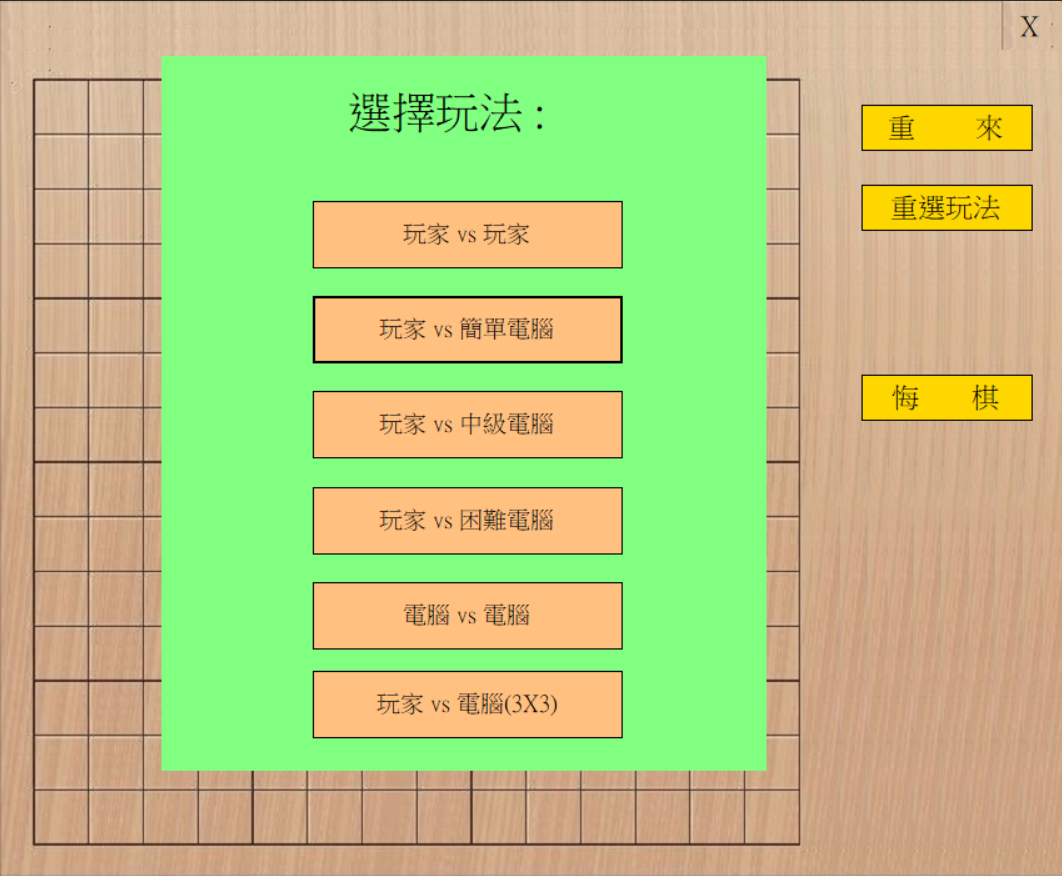
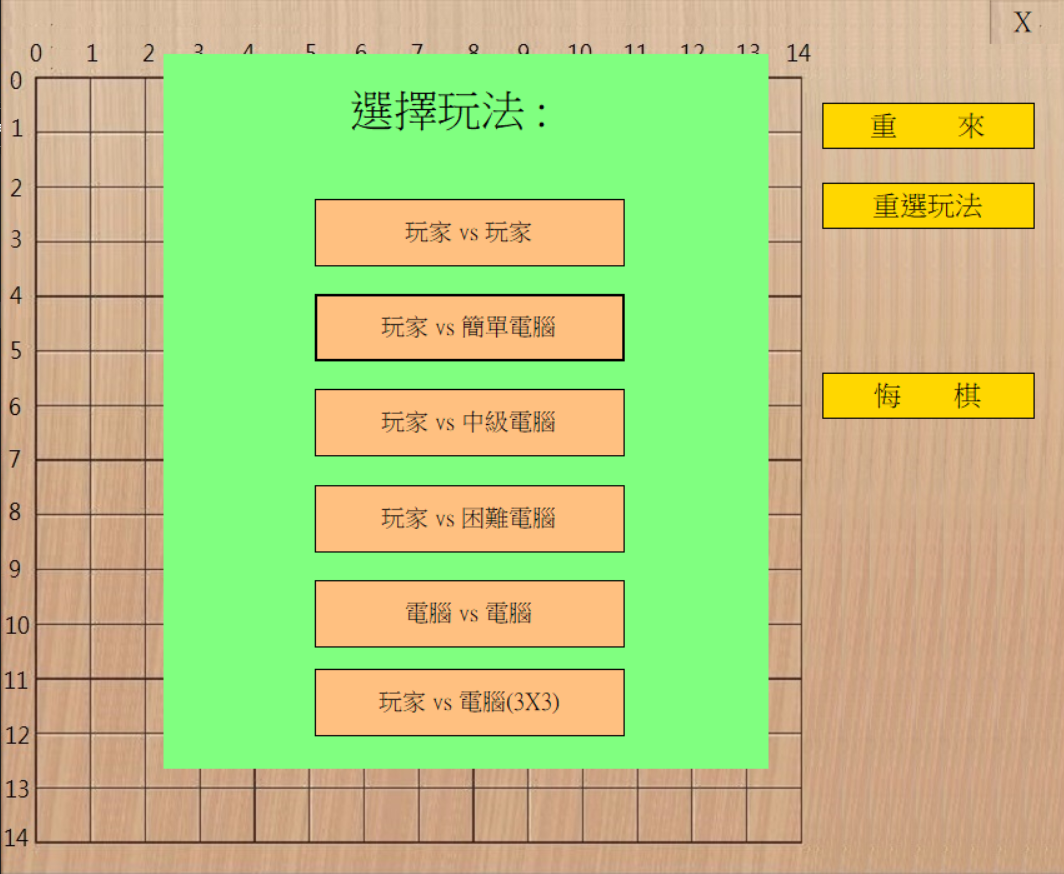
1.update img 2.modify debug mode UI

diff --git a/ai_gomoku/Form1.Designer.cs b/ai_gomoku/Form1.Designer.cs
@@ -62,9 +62,9 @@
             this.ReNewBtn.BackColor = System.Drawing.Color.Gold;
             this.ReNewBtn.FlatStyle = System.Windows.Forms.FlatStyle.Flat;
             this.ReNewBtn.Font = new System.Drawing.Font("新細明體", 16.2F, System.Drawing.FontStyle.Regular, System.Drawing.GraphicsUnit.Point, ((byte)(136)));
-            this.ReNewBtn.Location = new System.Drawing.Point(690, 83);
+            this.ReNewBtn.Location = new System.Drawing.Point(657, 83);
             this.ReNewBtn.Name = "ReNewBtn";
-            this.ReNewBtn.Size = new System.Drawing.Size(137, 37);
+            this.ReNewBtn.Size = new System.Drawing.Size(170, 37);
             this.ReNewBtn.TabIndex = 1;
             this.ReNewBtn.Text = "重        來";
             this.ReNewBtn.UseVisualStyleBackColor = false;
@@ -179,9 +179,9 @@
             this.ReturnHomeBtn.BackColor = System.Drawing.Color.Gold;
             this.ReturnHomeBtn.FlatStyle = System.Windows.Forms.FlatStyle.Flat;
             this.ReturnHomeBtn.Font = new System.Drawing.Font("新細明體", 16.2F, System.Drawing.FontStyle.Regular, System.Drawing.GraphicsUnit.Point, ((byte)(136)));
-            this.ReturnHomeBtn.Location = new System.Drawing.Point(690, 147);
+            this.ReturnHomeBtn.Location = new System.Drawing.Point(657, 147);
             this.ReturnHomeBtn.Name = "ReturnHomeBtn";
-            this.ReturnHomeBtn.Size = new System.Drawing.Size(137, 37);
+            this.ReturnHomeBtn.Size = new System.Drawing.Size(170, 37);
             this.ReturnHomeBtn.TabIndex = 1;
             this.ReturnHomeBtn.Text = "重選玩法";
             this.ReturnHomeBtn.UseVisualStyleBackColor = false;
@@ -208,9 +208,9 @@
             this.PreviousActionBtn.BackColor = System.Drawing.Color.Gold;
             this.PreviousActionBtn.FlatStyle = System.Windows.Forms.FlatStyle.Flat;
             this.PreviousActionBtn.Font = new System.Drawing.Font("新細明體", 16.2F, System.Drawing.FontStyle.Regular, System.Drawing.GraphicsUnit.Point, ((byte)(136)));
-            this.PreviousActionBtn.Location = new System.Drawing.Point(690, 299);
+            this.PreviousActionBtn.Location = new System.Drawing.Point(657, 299);
             this.PreviousActionBtn.Name = "PreviousActionBtn";
-            this.PreviousActionBtn.Size = new System.Drawing.Size(137, 37);
+            this.PreviousActionBtn.Size = new System.Drawing.Size(170, 37);
             this.PreviousActionBtn.TabIndex = 4;
             this.PreviousActionBtn.Text = "悔       棋";
             this.PreviousActionBtn.UseVisualStyleBackColor = false;
@@ -222,11 +222,11 @@
             this.ComputerNextBtn.Enabled = false;
             this.ComputerNextBtn.FlatStyle = System.Windows.Forms.FlatStyle.Flat;
             this.ComputerNextBtn.Font = new System.Drawing.Font("新細明體", 16.2F, System.Drawing.FontStyle.Regular, System.Drawing.GraphicsUnit.Point, ((byte)(136)));
-            this.ComputerNextBtn.Location = new System.Drawing.Point(690, 376);
+            this.ComputerNextBtn.Location = new System.Drawing.Point(657, 376);
             this.ComputerNextBtn.Name = "ComputerNextBtn";
-            this.ComputerNextBtn.Size = new System.Drawing.Size(136, 73);
+            this.ComputerNextBtn.Size = new System.Drawing.Size(169, 95);
             this.ComputerNextBtn.TabIndex = 5;
-            this.ComputerNextBtn.Text = "電腦下一步";
+            this.ComputerNextBtn.Text = "電腦下一步(debug mode)";
             this.ComputerNextBtn.UseVisualStyleBackColor = false;
             this.ComputerNextBtn.Visible = false;
             this.ComputerNextBtn.Click += new System.EventHandler(this.ComputerNextBtn_Click);
@@ -250,9 +250,9 @@
             this.ChangeComputerPlayBtn.Enabled = false;
             this.ChangeComputerPlayBtn.FlatStyle = System.Windows.Forms.FlatStyle.Flat;
             this.ChangeComputerPlayBtn.Font = new System.Drawing.Font("新細明體", 16.2F, System.Drawing.FontStyle.Regular, System.Drawing.GraphicsUnit.Point, ((byte)(136)));
-            this.ChangeComputerPlayBtn.Location = new System.Drawing.Point(691, 538);
+            this.ChangeComputerPlayBtn.Location = new System.Drawing.Point(657, 538);
             this.ChangeComputerPlayBtn.Name = "ChangeComputerPlayBtn";
-            this.ChangeComputerPlayBtn.Size = new System.Drawing.Size(136, 65);
+            this.ChangeComputerPlayBtn.Size = new System.Drawing.Size(170, 65);
             this.ChangeComputerPlayBtn.TabIndex = 7;
             this.ChangeComputerPlayBtn.Text = "換電腦下";
             this.ChangeComputerPlayBtn.UseVisualStyleBackColor = false;

diff --git a/ai_gomoku/Form1.cs b/ai_gomoku/Form1.cs
@@ -163,9 +163,15 @@ namespace ai_gomoku
         }
         private void AIVSAI_Btn_Click(object sender, EventArgs e)
         {
-            EnableComputerNextBtn();
+            PreviousActionBtn.Visible = false;
+            PreviousActionBtn.Enabled = false;
 
-            RoleMgr = new RoleMgr(this, GameDef.PlayerType.HardAI, GameDef.PlayerType.HardAI, GameDef.JudgeType.Nomal);
+            GameDef.JudgeType judgeType = GameDef.JudgeType.Nomal;
+
+            if (judgeType == GameDef.JudgeType.Debug)
+                EnableComputerNextBtn();
+
+            RoleMgr = new RoleMgr(this, GameDef.PlayerType.HardAI, GameDef.PlayerType.HardAI, judgeType);
             HomePanel.Visible = false;
             RoleMgr.Start();
         }
